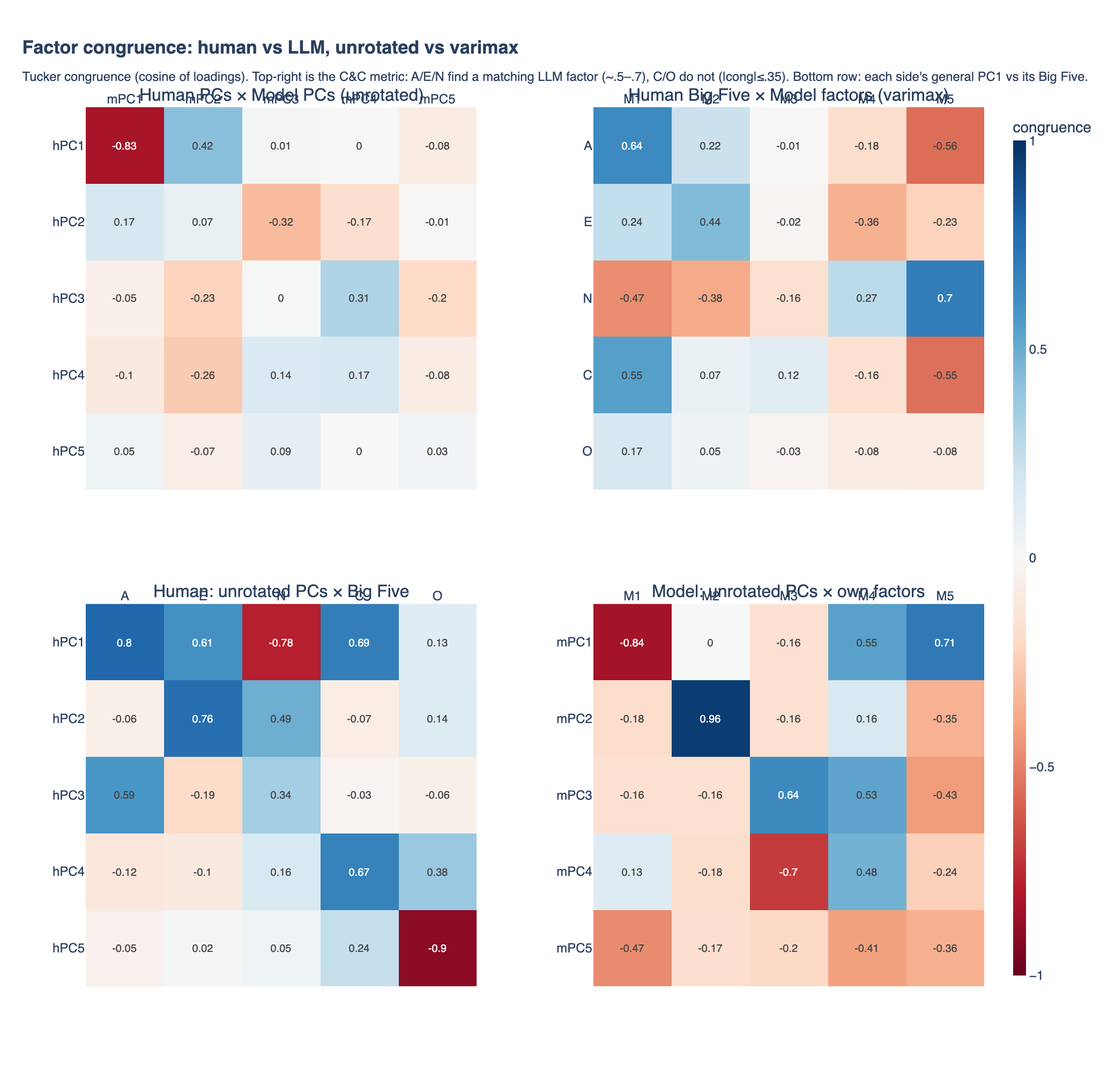
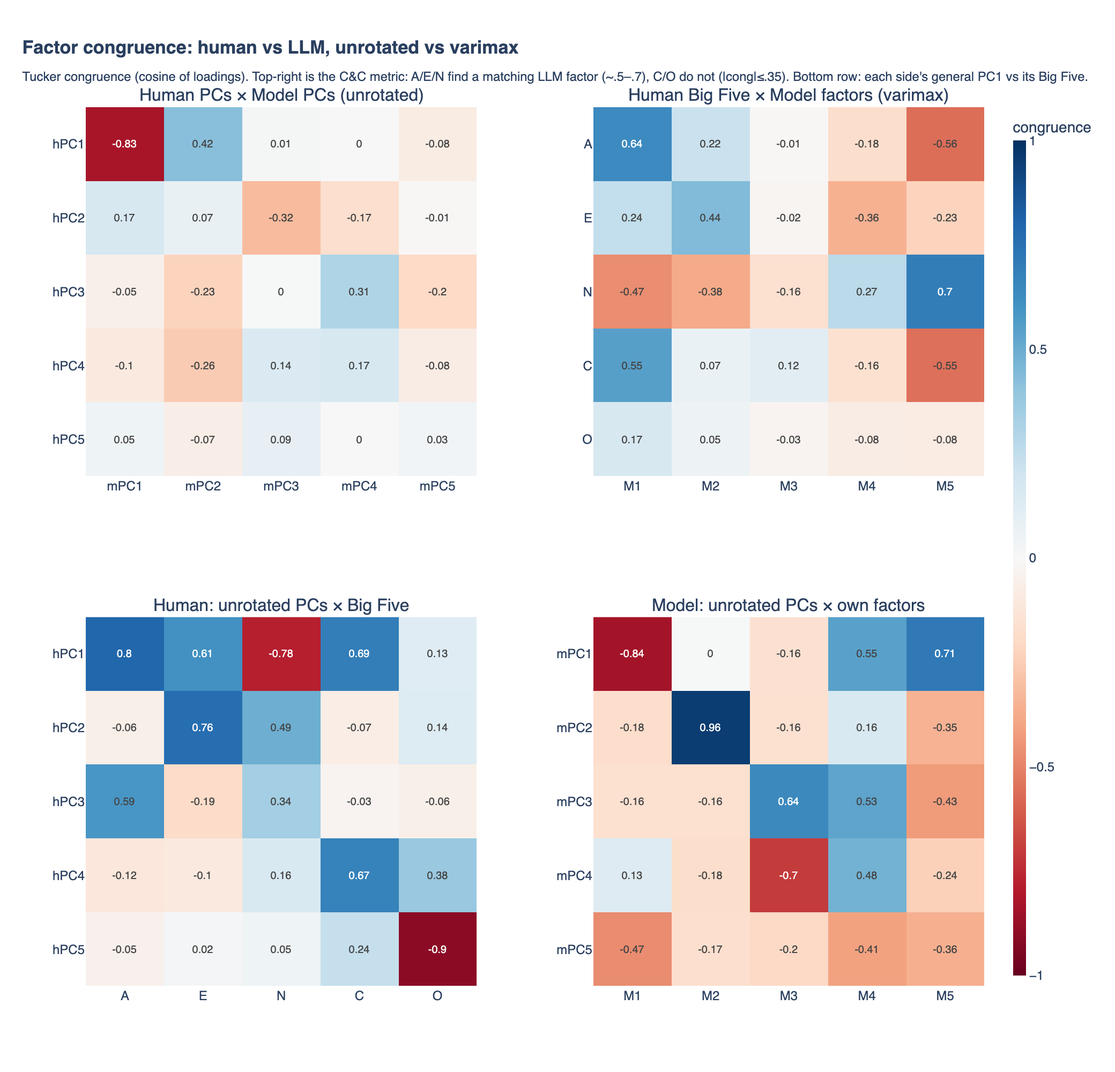
W13 §3.11: fix congruence-grid title/axis overlap (labels to bottom)

diff --git a/results/adjectives/factor_congruence_grid.html b/results/adjectives/factor_congruence_grid.html
@@ -2,6 +2,6 @@
 <head><meta charset="utf-8" /></head>
 <body>
     <div>                        <script>window.PlotlyConfig = {MathJaxConfig: 'local'};</script>
-        <script charset="utf-8" src="https://cdn.plot.ly/plotly-3.4.0.min.js" integrity="sha256-KEmPoupLpFyGMyGAiOsiNDbKDKAvxXAn/W+oQa0ZAfk=" crossorigin="anonymous"></script>                <div id="d6104cd7-054e-4a4f-a840-e70d15664359" class="plotly-graph-div" style="height:1000px; width:1040px;"></div>            <script>                window.PLOTLYENV=window.PLOTLYENV || {};                                if (document.getElementById("d6104cd7-054e-4a4f-a840-e70d15664359")) {                    Plotly.newPlot(                        "d6104cd7-054e-4a4f-a840-e70d15664359",                        [{"colorbar":{"thickness":12,"title":{"text":"congruence"}},"colorscale":[[0.0,"rgb(103,0,31)"],[0.1,"rgb(178,24,43)"],[0.2,"rgb(214,96,77)"],[0.3,"rgb(244,165,130)"],[0.4,"rgb(253,219,199)"],[0.5,"rgb(247,247,247)"],[0.6,"rgb(209,229,240)"],[0.7,"rgb(146,197,222)"],[0.8,"rgb(67,147,195)"],[0.9,"rgb(33,102,172)"],[1.0,"rgb(5,48,97)"]],"reversescale":false,"showscale":false,"text":{"dtype":"f8","bdata":"j8L1KFyP6r\u002fhehSuR+HaP3sUrkfheoQ\u002fAAAAAAAAAAB7FK5H4Xq0v8P1KFyPwsU\u002f7FG4HoXrsT97FK5H4XrUv8P1KFyPwsW\u002fexSuR+F6hL+amZmZmZmpv3E9CtejcM2\u002fAAAAAAAAAADXo3A9CtfTP5qZmZmZmcm\u002fmpmZmZmZub+kcD0K16PQv+xRuB6F68E\u002fw\u002fUoXI\u002fCxT97FK5H4Xq0v5qZmZmZmak\u002f7FG4HoXrsb8K16NwPQq3PwAAAAAAAACAuB6F61G4nj8=","shape":"5, 5"},"textfont":{"size":10},"texttemplate":"%{text}","x":["mPC1","mPC2","mPC3","mPC4","mPC5"],"y":["hPC1","hPC2","hPC3","hPC4","hPC5"],"z":{"dtype":"f8","bdata":"GhvoLWZz6r\u002ftJQW3\u002fAfbP+rtTgTEiI0\u002fb1vitkzaYz+iqUbq2\u002f20v3xo0JiiosU\u002f8fE5Shi5sj+h\u002foI0dVjUv\u002f0sQi+AosW\u002f1I8TE\u002fAJgL8l0Wf24w+sv4XHGGCeF82\u002f921lpzVOcj\u002f+stTS9qnTPwkkglNTjsm\u002fHHVGVAt\u002fub+BpV3unZHQv7EohBIoiMI\u002frKnSDwBIxT9amg9DBI+zv0YIfI28Uag\u002foeSeBF+Osb+NFPKgEi+2P9a\u002f7Debu0W\u002f3iapDbFhoD8=","shape":"5, 5"},"zmax":1,"zmin":-1,"type":"heatmap","xaxis":"x","yaxis":"y"},{"colorbar":{"thickness":12,"title":{"text":"congruence"}},"colorscale":[[0.0,"rgb(103,0,31)"],[0.1,"rgb(178,24,43)"],[0.2,"rgb(214,96,77)"],[0.3,"rgb(244,165,130)"],[0.4,"rgb(253,219,199)"],[0.5,"rgb(247,247,247)"],[0.6,"rgb(209,229,240)"],[0.7,"rgb(146,197,222)"],[0.8,"rgb(67,147,195)"],[0.9,"rgb(33,102,172)"],[1.0,"rgb(5,48,97)"]],"reversescale":false,"showscale":true,"text":{"dtype":"f8","bdata":"exSuR+F65D8pXI\u002fC9SjMP3sUrkfheoS\u002fCtejcD0Kx7\u002fsUbgehevhv7gehetRuM4\u002fKVyPwvUo3D97FK5H4XqUvwrXo3A9Cte\u002fcT0K16Nwzb8UrkfhehTev1K4HoXrUdi\u002fexSuR+F6xL9I4XoUrkfRP2ZmZmZmZuY\u002fmpmZmZmZ4T\u002fsUbgeheuxP7gehetRuL4\u002fexSuR+F6xL+amZmZmZnhv8P1KFyPwsU\u002fmpmZmZmZqT+4HoXrUbiev3sUrkfherS\u002fexSuR+F6tL8=","shape":"5, 5"},"textfont":{"size":10},"texttemplate":"%{text}","x":["M1","M2","M3","M4","M5"],"y":["A","E","N","C","O"],"z":{"dtype":"f8","bdata":"KmIhBbRx5D+dZu1Tt+PLP0gQWdRj836\u002fpDp2KM0Ux79yuB3fD+Xhv0L2KbMXJM8\u002fBt\u002f2TBEn3D\u002fgIp\u002f38eGTvySH+wqoxta\u002fnakfkbsXzb8B6r1I3wfevyViJnBGPNi\u002fUIPTEEOyxL8D46AIhUTRPwjckGU2X+Y\u002fmrWEw1ux4T\u002fqj0C75EixP4pDQUO5Ar4\u002fJybloCwoxL8D\u002fGG7ta\u002fhv0dxBKOWTcU\u002fPwx1ifV8qz9zl\u002fJyLuacv4dlhfXEZLS\u002fFgF2diKdtb8=","shape":"5, 5"},"zmax":1,"zmin":-1,"type":"heatmap","xaxis":"x2","yaxis":"y2"},{"colorbar":{"thickness":12,"title":{"text":"congruence"}},"colorscale":[[0.0,"rgb(103,0,31)"],[0.1,"rgb(178,24,43)"],[0.2,"rgb(214,96,77)"],[0.3,"rgb(244,165,130)"],[0.4,"rgb(253,219,199)"],[0.5,"rgb(247,247,247)"],[0.6,"rgb(209,229,240)"],[0.7,"rgb(146,197,222)"],[0.8,"rgb(67,147,195)"],[0.9,"rgb(33,102,172)"],[1.0,"rgb(5,48,97)"]],"reversescale":false,"showscale":false,"text":{"dtype":"f8","bdata":"mpmZmZmZ6T+F61G4HoXjP\u002fYoXI\u002fC9ei\u002fFK5H4XoU5j+kcD0K16PAP7gehetRuK6\u002fUrgehetR6D9cj8L1KFzfP+xRuB6F67G\u002f7FG4HoXrwT\u002fhehSuR+HiP1K4HoXrUci\u002fw\u002fUoXI\u002fC1T+4HoXrUbiev7gehetRuK6\u002fuB6F61G4vr+amZmZmZm5v3sUrkfhesQ\u002fcT0K16Nw5T9SuB6F61HYP5qZmZmZmam\u002fexSuR+F6lD+amZmZmZmpP7gehetRuM4\u002fzczMzMzM7L8=","shape":"5, 5"},"textfont":{"size":10},"texttemplate":"%{text}","x":["A","E","N","C","O"],"y":["hPC1","hPC2","hPC3","hPC4","hPC5"],"z":{"dtype":"f8","bdata":"VqswXPmG6T9MdLOY3HPjP42xkQ0oBOm\u002f6KlhSmU75j835FtoFRXAPx4fSTzmXq2\u002fguTv3Mxz6D\u002f1pjIX95vfP0AiHZOjtbK\u002foxmgqYtRwT\u002fNA1ESIcfiPzd7vM34YMi\u002fEfdNmJjn1T9ywJPNCOGav1CiV3lyGq2\u002foNEOlHoIvr\u002fuKd2rfkq5v88IzNZ3bcQ\u002fifOImkKW5T+RrOIRDUbYP34gYH8YNai\u002fS8GNT6KElz9XAC7EzJ6oP4cnw8VQWc4\u002fXKQXW9z07L8=","shape":"5, 5"},"zmax":1,"zmin":-1,"type":"heatmap","xaxis":"x3","yaxis":"y3"},{"colorbar":{"thickness":12,"title":{"text":"congruence"}},"colorscale":[[0.0,"rgb(103,0,31)"],[0.1,"rgb(178,24,43)"],[0.2,"rgb(214,96,77)"],[0.3,"rgb(244,165,130)"],[0.4,"rgb(253,219,199)"],[0.5,"rgb(247,247,247)"],[0.6,"rgb(209,229,240)"],[0.7,"rgb(146,197,222)"],[0.8,"rgb(67,147,195)"],[0.9,"rgb(33,102,172)"],[1.0,"rgb(5,48,97)"]],"reversescale":false,"showscale":false,"text":{"dtype":"f8","bdata":"4XoUrkfh6r8AAAAAAAAAAHsUrkfhesS\u002fmpmZmZmZ4T+4HoXrUbjmPwrXo3A9Cse\u002fuB6F61G47j97FK5H4XrEv3sUrkfhesQ\u002fZmZmZmZm1r97FK5H4XrEv3sUrkfhesS\u002fexSuR+F65D\u002f2KFyPwvXgP4XrUbgehdu\u002fpHA9CtejwD8K16NwPQrHv2ZmZmZmZua\u002fuB6F61G43j+4HoXrUbjOvxSuR+F6FN6\u002fw\u002fUoXI\u002fCxb+amZmZmZnJvz0K16NwPdq\u002fCtejcD0K178=","shape":"5, 5"},"textfont":{"size":10},"texttemplate":"%{text}","x":["M1","M2","M3","M4","M5"],"y":["mPC1","mPC2","mPC3","mPC4","mPC5"],"z":{"dtype":"f8","bdata":"cSY3+FzI6r+Vvu0ap5xlP1nTNAjx5sO\u002f1ryxraZx4T+\u002f3a9hLNvmPznsgH4Jlce\u002fQPIQstCU7j\u002f0kzdj+A\u002fEv3J5R9eGS8Q\u002fVp3R1aht1r9EwlpvHfLEv0Q9UoPIssS\u002ffe8I+LyY5D+BQebhEf7gP2+WJbmjSNu\u002fTk4xtN2SwD\u002fsvMoUFNHGv9pZKDgFh+a\u002fVed2tKCU3j9\u002fzY5hmZHOv8E1+gLiJ96\u002fy0lU2zC2xb9rwhOzXwrKv0AthmOpL9q\u002fW+riypjr1r8=","shape":"5, 5"},"zmax":1,"zmin":-1,"type":"heatmap","xaxis":"x4","yaxis":"y4"}],                        {"template":{"data":{"histogram2dcontour":[{"type":"histogram2dcontour","colorbar":{"outlinewidth":0,"ticks":""},"colorscale":[[0.0,"#0d0887"],[0.1111111111111111,"#46039f"],[0.2222222222222222,"#7201a8"],[0.3333333333333333,"#9c179e"],[0.4444444444444444,"#bd3786"],[0.5555555555555556,"#d8576b"],[0.6666666666666666,"#ed7953"],[0.7777777777777778,"#fb9f3a"],[0.8888888888888888,"#fdca26"],[1.0,"#f0f921"]]}],"choropleth":[{"type":"choropleth","colorbar":{"outlinewidth":0,"ticks":""}}],"histogram2d":[{"type":"histogram2d","colorbar":{"outlinewidth":0,"ticks":""},"colorscale":[[0.0,"#0d0887"],[0.1111111111111111,"#46039f"],[0.2222222222222222,"#7201a8"],[0.3333333333333333,"#9c179e"],[0.4444444444444444,"#bd3786"],[0.5555555555555556,"#d8576b"],[0.6666666666666666,"#ed7953"],[0.7777777777777778,"#fb9f3a"],[0.8888888888888888,"#fdca26"],[1.0,"#f0f921"]]}],"heatmap":[{"type":"heatmap","colorbar":{"outlinewidth":0,"ticks":""},"colorscale":[[0.0,"#0d0887"],[0.1111111111111111,"#46039f"],[0.2222222222222222,"#7201a8"],[0.3333333333333333,"#9c179e"],[0.4444444444444444,"#bd3786"],[0.5555555555555556,"#d8576b"],[0.6666666666666666,"#ed7953"],[0.7777777777777778,"#fb9f3a"],[0.8888888888888888,"#fdca26"],[1.0,"#f0f921"]]}],"contourcarpet":[{"type":"contourcarpet","colorbar":{"outlinewidth":0,"ticks":""}}],"contour":[{"type":"contour","colorbar":{"outlinewidth":0,"ticks":""},"colorscale":[[0.0,"#0d0887"],[0.1111111111111111,"#46039f"],[0.2222222222222222,"#7201a8"],[0.3333333333333333,"#9c179e"],[0.4444444444444444,"#bd3786"],[0.5555555555555556,"#d8576b"],[0.6666666666666666,"#ed7953"],[0.7777777777777778,"#fb9f3a"],[0.8888888888888888,"#fdca26"],[1.0,"#f0f921"]]}],"surface":[{"type":"surface","colorbar":{"outlinewidth":0,"ticks":""},"colorscale":[[0.0,"#0d0887"],[0.1111111111111111,"#46039f"],[0.2222222222222222,"#7201a8"],[0.3333333333333333,"#9c179e"],[0.4444444444444444,"#bd3786"],[0.5555555555555556,"#d8576b"],[0.6666666666666666,"#ed7953"],[0.7777777777777778,"#fb9f3a"],[0.8888888888888888,"#fdca26"],[1.0,"#f0f921"]]}],"mesh3d":[{"type":"mesh3d","colorbar":{"outlinewidth":0,"ticks":""}}],"scatter":[{"fillpattern":{"fillmode":"overlay","size":10,"solidity":0.2},"type":"scatter"}],"parcoords":[{"type":"parcoords","line":{"colorbar":{"outlinewidth":0,"ticks":""}}}],"scatterpolargl":[{"type":"scatterpolargl","marker":{"colorbar":{"outlinewidth":0,"ticks":""}}}],"bar":[{"error_x":{"color":"#2a3f5f"},"error_y":{"color":"#2a3f5f"},"marker":{"line":{"color":"#E5ECF6","width":0.5},"pattern":{"fillmode":"overlay","size":10,"solidity":0.2}},"type":"bar"}],"scattergeo":[{"type":"scattergeo","marker":{"colorbar":{"outlinewidth":0,"ticks":""}}}],"scatterpolar":[{"type":"scatterpolar","marker":{"colorbar":{"outlinewidth":0,"ticks":""}}}],"histogram":[{"marker":{"pattern":{"fillmode":"overlay","size":10,"solidity":0.2}},"type":"histogram"}],"scattergl":[{"type":"scattergl","marker":{"colorbar":{"outlinewidth":0,"ticks":""}}}],"scatter3d":[{"type":"scatter3d","line":{"colorbar":{"outlinewidth":0,"ticks":""}},"marker":{"colorbar":{"outlinewidth":0,"ticks":""}}}],"scattermap":[{"type":"scattermap","marker":{"colorbar":{"outlinewidth":0,"ticks":""}}}],"scattermapbox":[{"type":"scattermapbox","marker":{"colorbar":{"outlinewidth":0,"ticks":""}}}],"scatterternary":[{"type":"scatterternary","marker":{"colorbar":{"outlinewidth":0,"ticks":""}}}],"scattercarpet":[{"type":"scattercarpet","marker":{"colorbar":{"outlinewidth":0,"ticks":""}}}],"carpet":[{"aaxis":{"endlinecolor":"#2a3f5f","gridcolor":"white","linecolor":"white","minorgridcolor":"white","startlinecolor":"#2a3f5f"},"baxis":{"endlinecolor":"#2a3f5f","gridcolor":"white","linecolor":"white","minorgridcolor":"white","startlinecolor":"#2a3f5f"},"type":"carpet"}],"table":[{"cells":{"fill":{"color":"#EBF0F8"},"line":{"color":"white"}},"header":{"fill":{"color":"#C8D4E3"},"line":{"color":"white"}},"type":"table"}],"barpolar":[{"marker":{"line":{"color":"#E5ECF6","width":0.5},"pattern":{"fillmode":"overlay","size":10,"solidity":0.2}},"type":"barpolar"}],"pie":[{"automargin":true,"type":"pie"}]},"layout":{"autotypenumbers":"strict","colorway":["#636efa","#EF553B","#00cc96","#ab63fa","#FFA15A","#19d3f3","#FF6692","#B6E880","#FF97FF","#FECB52"],"font":{"color":"#2a3f5f"},"hovermode":"closest","hoverlabel":{"align":"left"},"paper_bgcolor":"white","plot_bgcolor":"#E5ECF6","polar":{"bgcolor":"#E5ECF6","angularaxis":{"gridcolor":"white","linecolor":"white","ticks":""},"radialaxis":{"gridcolor":"white","linecolor":"white","ticks":""}},"ternary":{"bgcolor":"#E5ECF6","aaxis":{"gridcolor":"white","linecolor":"white","ticks":""},"baxis":{"gridcolor":"white","linecolor":"white","ticks":""},"caxis":{"gridcolor":"white","linecolor":"white","ticks":""}},"coloraxis":{"colorbar":{"outlinewidth":0,"ticks":""}},"colorscale":{"sequential":[[0.0,"#0d0887"],[0.1111111111111111,"#46039f"],[0.2222222222222222,"#7201a8"],[0.3333333333333333,"#9c179e"],[0.4444444444444444,"#bd3786"],[0.5555555555555556,"#d8576b"],[0.6666666666666666,"#ed7953"],[0.7777777777777778,"#fb9f3a"],[0.8888888888888888,"#fdca26"],[1.0,"#f0f921"]],"sequentialminus":[[0.0,"#0d0887"],[0.1111111111111111,"#46039f"],[0.2222222222222222,"#7201a8"],[0.3333333333333333,"#9c179e"],[0.4444444444444444,"#bd3786"],[0.5555555555555556,"#d8576b"],[0.6666666666666666,"#ed7953"],[0.7777777777777778,"#fb9f3a"],[0.8888888888888888,"#fdca26"],[1.0,"#f0f921"]],"diverging":[[0,"#8e0152"],[0.1,"#c51b7d"],[0.2,"#de77ae"],[0.3,"#f1b6da"],[0.4,"#fde0ef"],[0.5,"#f7f7f7"],[0.6,"#e6f5d0"],[0.7,"#b8e186"],[0.8,"#7fbc41"],[0.9,"#4d9221"],[1,"#276419"]]},"xaxis":{"gridcolor":"white","linecolor":"white","ticks":"","title":{"standoff":15},"zerolinecolor":"white","automargin":true,"zerolinewidth":2},"yaxis":{"gridcolor":"white","linecolor":"white","ticks":"","title":{"standoff":15},"zerolinecolor":"white","automargin":true,"zerolinewidth":2},"scene":{"xaxis":{"backgroundcolor":"#E5ECF6","gridcolor":"white","linecolor":"white","showbackground":true,"ticks":"","zerolinecolor":"white","gridwidth":2},"yaxis":{"backgroundcolor":"#E5ECF6","gridcolor":"white","linecolor":"white","showbackground":true,"ticks":"","zerolinecolor":"white","gridwidth":2},"zaxis":{"backgroundcolor":"#E5ECF6","gridcolor":"white","linecolor":"white","showbackground":true,"ticks":"","zerolinecolor":"white","gridwidth":2}},"shapedefaults":{"line":{"color":"#2a3f5f"}},"annotationdefaults":{"arrowcolor":"#2a3f5f","arrowhead":0,"arrowwidth":1},"geo":{"bgcolor":"white","landcolor":"#E5ECF6","subunitcolor":"white","showland":true,"showlakes":true,"lakecolor":"white"},"title":{"x":0.05},"mapbox":{"style":"light"}}},"xaxis":{"anchor":"y","domain":[0.0,0.435],"side":"top"},"yaxis":{"anchor":"x","domain":[0.565,1.0],"autorange":"reversed"},"xaxis2":{"anchor":"y2","domain":[0.565,1.0],"side":"top"},"yaxis2":{"anchor":"x2","domain":[0.565,1.0],"autorange":"reversed"},"xaxis3":{"anchor":"y3","domain":[0.0,0.435],"side":"top"},"yaxis3":{"anchor":"x3","domain":[0.0,0.435],"autorange":"reversed"},"xaxis4":{"anchor":"y4","domain":[0.565,1.0],"side":"top"},"yaxis4":{"anchor":"x4","domain":[0.0,0.435],"autorange":"reversed"},"annotations":[{"font":{"size":16},"showarrow":false,"text":"Human PCs × Model PCs (unrotated)","x":0.2175,"xanchor":"center","xref":"paper","y":1.0,"yanchor":"bottom","yref":"paper"},{"font":{"size":16},"showarrow":false,"text":"Human Big Five × Model factors (varimax)","x":0.7825,"xanchor":"center","xref":"paper","y":1.0,"yanchor":"bottom","yref":"paper"},{"font":{"size":16},"showarrow":false,"text":"Human: unrotated PCs × Big Five","x":0.2175,"xanchor":"center","xref":"paper","y":0.435,"yanchor":"bottom","yref":"paper"},{"font":{"size":16},"showarrow":false,"text":"Model: unrotated PCs × own factors","x":0.7825,"xanchor":"center","xref":"paper","y":0.435,"yanchor":"bottom","yref":"paper"}],"title":{"text":"\u003cb\u003eFactor congruence: human vs LLM, unrotated vs varimax\u003c\u002fb\u003e\u003cbr\u003e\u003csub\u003eTucker congruence (cosine of loadings). Top-right is the C&C metric: A\u002fE\u002fN find a matching LLM factor (~.5–.7), C\u002fO do not (|cong|≤.35). Bottom row: each side's general PC1 vs its Big Five.\u003c\u002fsub\u003e","x":0.02},"font":{"family":"Helvetica, Arial"},"width":1040,"height":1000,"plot_bgcolor":"white"},                        {"responsive": true}                    )                };            </script>        </div>
+        <script charset="utf-8" src="https://cdn.plot.ly/plotly-3.4.0.min.js" integrity="sha256-KEmPoupLpFyGMyGAiOsiNDbKDKAvxXAn/W+oQa0ZAfk=" crossorigin="anonymous"></script>                <div id="732c1719-be89-472d-ab96-47608050ad94" class="plotly-graph-div" style="height:1000px; width:1040px;"></div>            <script>                window.PLOTLYENV=window.PLOTLYENV || {};                                if (document.getElementById("732c1719-be89-472d-ab96-47608050ad94")) {                    Plotly.newPlot(                        "732c1719-be89-472d-ab96-47608050ad94",                        [{"colorbar":{"thickness":12,"title":{"text":"congruence"}},"colorscale":[[0.0,"rgb(103,0,31)"],[0.1,"rgb(178,24,43)"],[0.2,"rgb(214,96,77)"],[0.3,"rgb(244,165,130)"],[0.4,"rgb(253,219,199)"],[0.5,"rgb(247,247,247)"],[0.6,"rgb(209,229,240)"],[0.7,"rgb(146,197,222)"],[0.8,"rgb(67,147,195)"],[0.9,"rgb(33,102,172)"],[1.0,"rgb(5,48,97)"]],"reversescale":false,"showscale":false,"text":{"dtype":"f8","bdata":"j8L1KFyP6r\u002fhehSuR+HaP3sUrkfheoQ\u002fAAAAAAAAAAB7FK5H4Xq0v8P1KFyPwsU\u002f7FG4HoXrsT97FK5H4XrUv8P1KFyPwsW\u002fexSuR+F6hL+amZmZmZmpv3E9CtejcM2\u002fAAAAAAAAAADXo3A9CtfTP5qZmZmZmcm\u002fmpmZmZmZub+kcD0K16PQv+xRuB6F68E\u002fw\u002fUoXI\u002fCxT97FK5H4Xq0v5qZmZmZmak\u002f7FG4HoXrsb8K16NwPQq3PwAAAAAAAACAuB6F61G4nj8=","shape":"5, 5"},"textfont":{"size":10},"texttemplate":"%{text}","x":["mPC1","mPC2","mPC3","mPC4","mPC5"],"y":["hPC1","hPC2","hPC3","hPC4","hPC5"],"z":{"dtype":"f8","bdata":"GhvoLWZz6r\u002ftJQW3\u002fAfbP+rtTgTEiI0\u002fb1vitkzaYz+iqUbq2\u002f20v3xo0JiiosU\u002f8fE5Shi5sj+h\u002foI0dVjUv\u002f0sQi+AosW\u002f1I8TE\u002fAJgL8l0Wf24w+sv4XHGGCeF82\u002f921lpzVOcj\u002f+stTS9qnTPwkkglNTjsm\u002fHHVGVAt\u002fub+BpV3unZHQv7EohBIoiMI\u002frKnSDwBIxT9amg9DBI+zv0YIfI28Uag\u002foeSeBF+Osb+NFPKgEi+2P9a\u002f7Debu0W\u002f3iapDbFhoD8=","shape":"5, 5"},"zmax":1,"zmin":-1,"type":"heatmap","xaxis":"x","yaxis":"y"},{"colorbar":{"thickness":12,"title":{"text":"congruence"}},"colorscale":[[0.0,"rgb(103,0,31)"],[0.1,"rgb(178,24,43)"],[0.2,"rgb(214,96,77)"],[0.3,"rgb(244,165,130)"],[0.4,"rgb(253,219,199)"],[0.5,"rgb(247,247,247)"],[0.6,"rgb(209,229,240)"],[0.7,"rgb(146,197,222)"],[0.8,"rgb(67,147,195)"],[0.9,"rgb(33,102,172)"],[1.0,"rgb(5,48,97)"]],"reversescale":false,"showscale":true,"text":{"dtype":"f8","bdata":"exSuR+F65D8pXI\u002fC9SjMP3sUrkfheoS\u002fCtejcD0Kx7\u002fsUbgehevhv7gehetRuM4\u002fKVyPwvUo3D97FK5H4XqUvwrXo3A9Cte\u002fcT0K16Nwzb8UrkfhehTev1K4HoXrUdi\u002fexSuR+F6xL9I4XoUrkfRP2ZmZmZmZuY\u002fmpmZmZmZ4T\u002fsUbgeheuxP7gehetRuL4\u002fexSuR+F6xL+amZmZmZnhv8P1KFyPwsU\u002fmpmZmZmZqT+4HoXrUbiev3sUrkfherS\u002fexSuR+F6tL8=","shape":"5, 5"},"textfont":{"size":10},"texttemplate":"%{text}","x":["M1","M2","M3","M4","M5"],"y":["A","E","N","C","O"],"z":{"dtype":"f8","bdata":"KmIhBbRx5D+dZu1Tt+PLP0gQWdRj836\u002fpDp2KM0Ux79yuB3fD+Xhv0L2KbMXJM8\u002fBt\u002f2TBEn3D\u002fgIp\u002f38eGTvySH+wqoxta\u002fnakfkbsXzb8B6r1I3wfevyViJnBGPNi\u002fUIPTEEOyxL8D46AIhUTRPwjckGU2X+Y\u002fmrWEw1ux4T\u002fqj0C75EixP4pDQUO5Ar4\u002fJybloCwoxL8D\u002fGG7ta\u002fhv0dxBKOWTcU\u002fPwx1ifV8qz9zl\u002fJyLuacv4dlhfXEZLS\u002fFgF2diKdtb8=","shape":"5, 5"},"zmax":1,"zmin":-1,"type":"heatmap","xaxis":"x2","yaxis":"y2"},{"colorbar":{"thickness":12,"title":{"text":"congruence"}},"colorscale":[[0.0,"rgb(103,0,31)"],[0.1,"rgb(178,24,43)"],[0.2,"rgb(214,96,77)"],[0.3,"rgb(244,165,130)"],[0.4,"rgb(253,219,199)"],[0.5,"rgb(247,247,247)"],[0.6,"rgb(209,229,240)"],[0.7,"rgb(146,197,222)"],[0.8,"rgb(67,147,195)"],[0.9,"rgb(33,102,172)"],[1.0,"rgb(5,48,97)"]],"reversescale":false,"showscale":false,"text":{"dtype":"f8","bdata":"mpmZmZmZ6T+F61G4HoXjP\u002fYoXI\u002fC9ei\u002fFK5H4XoU5j+kcD0K16PAP7gehetRuK6\u002fUrgehetR6D9cj8L1KFzfP+xRuB6F67G\u002f7FG4HoXrwT\u002fhehSuR+HiP1K4HoXrUci\u002fw\u002fUoXI\u002fC1T+4HoXrUbiev7gehetRuK6\u002fuB6F61G4vr+amZmZmZm5v3sUrkfhesQ\u002fcT0K16Nw5T9SuB6F61HYP5qZmZmZmam\u002fexSuR+F6lD+amZmZmZmpP7gehetRuM4\u002fzczMzMzM7L8=","shape":"5, 5"},"textfont":{"size":10},"texttemplate":"%{text}","x":["A","E","N","C","O"],"y":["hPC1","hPC2","hPC3","hPC4","hPC5"],"z":{"dtype":"f8","bdata":"VqswXPmG6T9MdLOY3HPjP42xkQ0oBOm\u002f6KlhSmU75j835FtoFRXAPx4fSTzmXq2\u002fguTv3Mxz6D\u002f1pjIX95vfP0AiHZOjtbK\u002foxmgqYtRwT\u002fNA1ESIcfiPzd7vM34YMi\u002fEfdNmJjn1T9ywJPNCOGav1CiV3lyGq2\u002foNEOlHoIvr\u002fuKd2rfkq5v88IzNZ3bcQ\u002fifOImkKW5T+RrOIRDUbYP34gYH8YNai\u002fS8GNT6KElz9XAC7EzJ6oP4cnw8VQWc4\u002fXKQXW9z07L8=","shape":"5, 5"},"zmax":1,"zmin":-1,"type":"heatmap","xaxis":"x3","yaxis":"y3"},{"colorbar":{"thickness":12,"title":{"text":"congruence"}},"colorscale":[[0.0,"rgb(103,0,31)"],[0.1,"rgb(178,24,43)"],[0.2,"rgb(214,96,77)"],[0.3,"rgb(244,165,130)"],[0.4,"rgb(253,219,199)"],[0.5,"rgb(247,247,247)"],[0.6,"rgb(209,229,240)"],[0.7,"rgb(146,197,222)"],[0.8,"rgb(67,147,195)"],[0.9,"rgb(33,102,172)"],[1.0,"rgb(5,48,97)"]],"reversescale":false,"showscale":false,"text":{"dtype":"f8","bdata":"4XoUrkfh6r8AAAAAAAAAAHsUrkfhesS\u002fmpmZmZmZ4T+4HoXrUbjmPwrXo3A9Cse\u002fuB6F61G47j97FK5H4XrEv3sUrkfhesQ\u002fZmZmZmZm1r97FK5H4XrEv3sUrkfhesS\u002fexSuR+F65D\u002f2KFyPwvXgP4XrUbgehdu\u002fpHA9CtejwD8K16NwPQrHv2ZmZmZmZua\u002fuB6F61G43j+4HoXrUbjOvxSuR+F6FN6\u002fw\u002fUoXI\u002fCxb+amZmZmZnJvz0K16NwPdq\u002fCtejcD0K178=","shape":"5, 5"},"textfont":{"size":10},"texttemplate":"%{text}","x":["M1","M2","M3","M4","M5"],"y":["mPC1","mPC2","mPC3","mPC4","mPC5"],"z":{"dtype":"f8","bdata":"cSY3+FzI6r+Vvu0ap5xlP1nTNAjx5sO\u002f1ryxraZx4T+\u002f3a9hLNvmPznsgH4Jlce\u002fQPIQstCU7j\u002f0kzdj+A\u002fEv3J5R9eGS8Q\u002fVp3R1aht1r9EwlpvHfLEv0Q9UoPIssS\u002ffe8I+LyY5D+BQebhEf7gP2+WJbmjSNu\u002fTk4xtN2SwD\u002fsvMoUFNHGv9pZKDgFh+a\u002fVed2tKCU3j9\u002fzY5hmZHOv8E1+gLiJ96\u002fy0lU2zC2xb9rwhOzXwrKv0AthmOpL9q\u002fW+riypjr1r8=","shape":"5, 5"},"zmax":1,"zmin":-1,"type":"heatmap","xaxis":"x4","yaxis":"y4"}],                        {"template":{"data":{"histogram2dcontour":[{"type":"histogram2dcontour","colorbar":{"outlinewidth":0,"ticks":""},"colorscale":[[0.0,"#0d0887"],[0.1111111111111111,"#46039f"],[0.2222222222222222,"#7201a8"],[0.3333333333333333,"#9c179e"],[0.4444444444444444,"#bd3786"],[0.5555555555555556,"#d8576b"],[0.6666666666666666,"#ed7953"],[0.7777777777777778,"#fb9f3a"],[0.8888888888888888,"#fdca26"],[1.0,"#f0f921"]]}],"choropleth":[{"type":"choropleth","colorbar":{"outlinewidth":0,"ticks":""}}],"histogram2d":[{"type":"histogram2d","colorbar":{"outlinewidth":0,"ticks":""},"colorscale":[[0.0,"#0d0887"],[0.1111111111111111,"#46039f"],[0.2222222222222222,"#7201a8"],[0.3333333333333333,"#9c179e"],[0.4444444444444444,"#bd3786"],[0.5555555555555556,"#d8576b"],[0.6666666666666666,"#ed7953"],[0.7777777777777778,"#fb9f3a"],[0.8888888888888888,"#fdca26"],[1.0,"#f0f921"]]}],"heatmap":[{"type":"heatmap","colorbar":{"outlinewidth":0,"ticks":""},"colorscale":[[0.0,"#0d0887"],[0.1111111111111111,"#46039f"],[0.2222222222222222,"#7201a8"],[0.3333333333333333,"#9c179e"],[0.4444444444444444,"#bd3786"],[0.5555555555555556,"#d8576b"],[0.6666666666666666,"#ed7953"],[0.7777777777777778,"#fb9f3a"],[0.8888888888888888,"#fdca26"],[1.0,"#f0f921"]]}],"contourcarpet":[{"type":"contourcarpet","colorbar":{"outlinewidth":0,"ticks":""}}],"contour":[{"type":"contour","colorbar":{"outlinewidth":0,"ticks":""},"colorscale":[[0.0,"#0d0887"],[0.1111111111111111,"#46039f"],[0.2222222222222222,"#7201a8"],[0.3333333333333333,"#9c179e"],[0.4444444444444444,"#bd3786"],[0.5555555555555556,"#d8576b"],[0.6666666666666666,"#ed7953"],[0.7777777777777778,"#fb9f3a"],[0.8888888888888888,"#fdca26"],[1.0,"#f0f921"]]}],"surface":[{"type":"surface","colorbar":{"outlinewidth":0,"ticks":""},"colorscale":[[0.0,"#0d0887"],[0.1111111111111111,"#46039f"],[0.2222222222222222,"#7201a8"],[0.3333333333333333,"#9c179e"],[0.4444444444444444,"#bd3786"],[0.5555555555555556,"#d8576b"],[0.6666666666666666,"#ed7953"],[0.7777777777777778,"#fb9f3a"],[0.8888888888888888,"#fdca26"],[1.0,"#f0f921"]]}],"mesh3d":[{"type":"mesh3d","colorbar":{"outlinewidth":0,"ticks":""}}],"scatter":[{"fillpattern":{"fillmode":"overlay","size":10,"solidity":0.2},"type":"scatter"}],"parcoords":[{"type":"parcoords","line":{"colorbar":{"outlinewidth":0,"ticks":""}}}],"scatterpolargl":[{"type":"scatterpolargl","marker":{"colorbar":{"outlinewidth":0,"ticks":""}}}],"bar":[{"error_x":{"color":"#2a3f5f"},"error_y":{"color":"#2a3f5f"},"marker":{"line":{"color":"#E5ECF6","width":0.5},"pattern":{"fillmode":"overlay","size":10,"solidity":0.2}},"type":"bar"}],"scattergeo":[{"type":"scattergeo","marker":{"colorbar":{"outlinewidth":0,"ticks":""}}}],"scatterpolar":[{"type":"scatterpolar","marker":{"colorbar":{"outlinewidth":0,"ticks":""}}}],"histogram":[{"marker":{"pattern":{"fillmode":"overlay","size":10,"solidity":0.2}},"type":"histogram"}],"scattergl":[{"type":"scattergl","marker":{"colorbar":{"outlinewidth":0,"ticks":""}}}],"scatter3d":[{"type":"scatter3d","line":{"colorbar":{"outlinewidth":0,"ticks":""}},"marker":{"colorbar":{"outlinewidth":0,"ticks":""}}}],"scattermap":[{"type":"scattermap","marker":{"colorbar":{"outlinewidth":0,"ticks":""}}}],"scattermapbox":[{"type":"scattermapbox","marker":{"colorbar":{"outlinewidth":0,"ticks":""}}}],"scatterternary":[{"type":"scatterternary","marker":{"colorbar":{"outlinewidth":0,"ticks":""}}}],"scattercarpet":[{"type":"scattercarpet","marker":{"colorbar":{"outlinewidth":0,"ticks":""}}}],"carpet":[{"aaxis":{"endlinecolor":"#2a3f5f","gridcolor":"white","linecolor":"white","minorgridcolor":"white","startlinecolor":"#2a3f5f"},"baxis":{"endlinecolor":"#2a3f5f","gridcolor":"white","linecolor":"white","minorgridcolor":"white","startlinecolor":"#2a3f5f"},"type":"carpet"}],"table":[{"cells":{"fill":{"color":"#EBF0F8"},"line":{"color":"white"}},"header":{"fill":{"color":"#C8D4E3"},"line":{"color":"white"}},"type":"table"}],"barpolar":[{"marker":{"line":{"color":"#E5ECF6","width":0.5},"pattern":{"fillmode":"overlay","size":10,"solidity":0.2}},"type":"barpolar"}],"pie":[{"automargin":true,"type":"pie"}]},"layout":{"autotypenumbers":"strict","colorway":["#636efa","#EF553B","#00cc96","#ab63fa","#FFA15A","#19d3f3","#FF6692","#B6E880","#FF97FF","#FECB52"],"font":{"color":"#2a3f5f"},"hovermode":"closest","hoverlabel":{"align":"left"},"paper_bgcolor":"white","plot_bgcolor":"#E5ECF6","polar":{"bgcolor":"#E5ECF6","angularaxis":{"gridcolor":"white","linecolor":"white","ticks":""},"radialaxis":{"gridcolor":"white","linecolor":"white","ticks":""}},"ternary":{"bgcolor":"#E5ECF6","aaxis":{"gridcolor":"white","linecolor":"white","ticks":""},"baxis":{"gridcolor":"white","linecolor":"white","ticks":""},"caxis":{"gridcolor":"white","linecolor":"white","ticks":""}},"coloraxis":{"colorbar":{"outlinewidth":0,"ticks":""}},"colorscale":{"sequential":[[0.0,"#0d0887"],[0.1111111111111111,"#46039f"],[0.2222222222222222,"#7201a8"],[0.3333333333333333,"#9c179e"],[0.4444444444444444,"#bd3786"],[0.5555555555555556,"#d8576b"],[0.6666666666666666,"#ed7953"],[0.7777777777777778,"#fb9f3a"],[0.8888888888888888,"#fdca26"],[1.0,"#f0f921"]],"sequentialminus":[[0.0,"#0d0887"],[0.1111111111111111,"#46039f"],[0.2222222222222222,"#7201a8"],[0.3333333333333333,"#9c179e"],[0.4444444444444444,"#bd3786"],[0.5555555555555556,"#d8576b"],[0.6666666666666666,"#ed7953"],[0.7777777777777778,"#fb9f3a"],[0.8888888888888888,"#fdca26"],[1.0,"#f0f921"]],"diverging":[[0,"#8e0152"],[0.1,"#c51b7d"],[0.2,"#de77ae"],[0.3,"#f1b6da"],[0.4,"#fde0ef"],[0.5,"#f7f7f7"],[0.6,"#e6f5d0"],[0.7,"#b8e186"],[0.8,"#7fbc41"],[0.9,"#4d9221"],[1,"#276419"]]},"xaxis":{"gridcolor":"white","linecolor":"white","ticks":"","title":{"standoff":15},"zerolinecolor":"white","automargin":true,"zerolinewidth":2},"yaxis":{"gridcolor":"white","linecolor":"white","ticks":"","title":{"standoff":15},"zerolinecolor":"white","automargin":true,"zerolinewidth":2},"scene":{"xaxis":{"backgroundcolor":"#E5ECF6","gridcolor":"white","linecolor":"white","showbackground":true,"ticks":"","zerolinecolor":"white","gridwidth":2},"yaxis":{"backgroundcolor":"#E5ECF6","gridcolor":"white","linecolor":"white","showbackground":true,"ticks":"","zerolinecolor":"white","gridwidth":2},"zaxis":{"backgroundcolor":"#E5ECF6","gridcolor":"white","linecolor":"white","showbackground":true,"ticks":"","zerolinecolor":"white","gridwidth":2}},"shapedefaults":{"line":{"color":"#2a3f5f"}},"annotationdefaults":{"arrowcolor":"#2a3f5f","arrowhead":0,"arrowwidth":1},"geo":{"bgcolor":"white","landcolor":"#E5ECF6","subunitcolor":"white","showland":true,"showlakes":true,"lakecolor":"white"},"title":{"x":0.05},"mapbox":{"style":"light"}}},"xaxis":{"anchor":"y","domain":[0.0,0.435],"side":"bottom"},"yaxis":{"anchor":"x","domain":[0.58,1.0],"autorange":"reversed"},"xaxis2":{"anchor":"y2","domain":[0.565,1.0],"side":"bottom"},"yaxis2":{"anchor":"x2","domain":[0.58,1.0],"autorange":"reversed"},"xaxis3":{"anchor":"y3","domain":[0.0,0.435],"side":"bottom"},"yaxis3":{"anchor":"x3","domain":[0.0,0.42],"autorange":"reversed"},"xaxis4":{"anchor":"y4","domain":[0.565,1.0],"side":"bottom"},"yaxis4":{"anchor":"x4","domain":[0.0,0.42],"autorange":"reversed"},"annotations":[{"font":{"size":16},"showarrow":false,"text":"Human PCs × Model PCs (unrotated)","x":0.2175,"xanchor":"center","xref":"paper","y":1.0,"yanchor":"bottom","yref":"paper"},{"font":{"size":16},"showarrow":false,"text":"Human Big Five × Model factors (varimax)","x":0.7825,"xanchor":"center","xref":"paper","y":1.0,"yanchor":"bottom","yref":"paper"},{"font":{"size":16},"showarrow":false,"text":"Human: unrotated PCs × Big Five","x":0.2175,"xanchor":"center","xref":"paper","y":0.42,"yanchor":"bottom","yref":"paper"},{"font":{"size":16},"showarrow":false,"text":"Model: unrotated PCs × own factors","x":0.7825,"xanchor":"center","xref":"paper","y":0.42,"yanchor":"bottom","yref":"paper"}],"title":{"text":"\u003cb\u003eFactor congruence: human vs LLM, unrotated vs varimax\u003c\u002fb\u003e\u003cbr\u003e\u003csub\u003eTucker congruence (cosine of loadings). Top-right is the C&C metric: A\u002fE\u002fN find a matching LLM factor (~.5–.7), C\u002fO do not (|cong|≤.35). Bottom row: each side's general PC1 vs its Big Five.\u003c\u002fsub\u003e","x":0.02},"font":{"family":"Helvetica, Arial"},"width":1040,"height":1000,"plot_bgcolor":"white"},                        {"responsive": true}                    )                };            </script>        </div>
 </body>
 </html>

diff --git a/scripts/factor_congruence_grid.py b/scripts/factor_congruence_grid.py
@@ -48,7 +48,7 @@ def main():
         (2, 2, "Model: unrotated PCs × own factors", cong(Mphi, Mvar), Mlab, mPC),
     ]
     fig = make_subplots(rows=2, cols=2, subplot_titles=[p[2] for p in panels],
-                        horizontal_spacing=0.13, vertical_spacing=0.13)
+                        horizontal_spacing=0.13, vertical_spacing=0.16)
     for r, c, _, Z, xlab, ylab in panels:
         fig.add_trace(go.Heatmap(
             z=Z, x=xlab, y=ylab, zmin=-1, zmax=1, colorscale="RdBu",
@@ -57,7 +57,7 @@ def main():
             text=np.round(Z, 2), texttemplate="%{text}",
             textfont=dict(size=10)), row=r, col=c)
         fig.update_yaxes(autorange="reversed", row=r, col=c)
-        fig.update_xaxes(side="top", row=r, col=c)
+        fig.update_xaxes(side="bottom", row=r, col=c)
     fig.update_layout(
         title=dict(text="<b>Factor congruence: human vs LLM, unrotated vs varimax</b>"
                    "<br><sub>Tucker congruence (cosine of loadings). Top-right is the "
